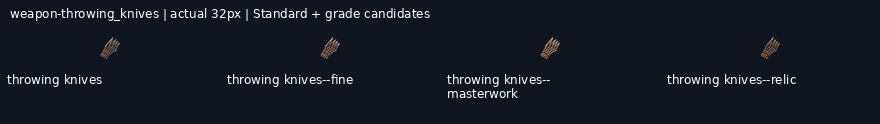
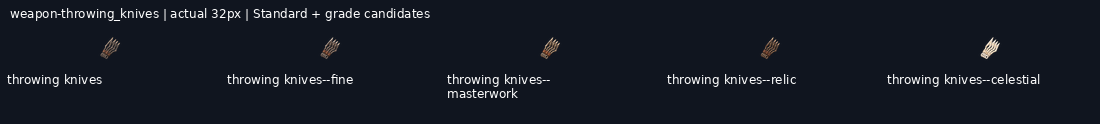
Deliver weapon-throwing_knives--celestial review candidate

diff --git a/art/_archive/gear/2026-11-20-reset-continuation/HANDOFF.md b/art/_archive/gear/2026-11-20-reset-continuation/HANDOFF.md
@@ -1,13 +1,13 @@
 # Reset continuation progress
 
-Branch: `art/2026-11-20-reset-continuation`. New deliveries: 5/22.
+Branch: `art/2026-11-20-reset-continuation`. New deliveries: 6/22.
 
 Shared coordination: https://github.com/leonpentastorm/Project-Heaven-Cry/issues/3 . Read START-HERE.md before extending this queue.
 
 All new entries remain review-candidate; production_approved:false and implementation_ready:false. Exact-outline review remains pending.
 
-Ready jobs: weapon-throwing_knives--celestial, weapon-ork_rip_saw--fine, weapon-hellraiser_servo_fist--fine, weapon-hellraiser_rotary--fine, weapon-purifier_flamer--fine.
+Ready jobs: weapon-ork_rip_saw--fine, weapon-hellraiser_servo_fist--fine, weapon-hellraiser_rotary--fine, weapon-purifier_flamer--fine.
 
-Pending jobs: weapon-throwing_knives--celestial, weapon-ork_rip_saw--fine, weapon-ork_rip_saw--masterwork, weapon-ork_rip_saw--relic, weapon-ork_rip_saw--celestial, weapon-hellraiser_servo_fist--fine, weapon-hellraiser_servo_fist--masterwork, weapon-hellraiser_servo_fist--relic, weapon-hellraiser_servo_fist--celestial, weapon-hellraiser_rotary--fine, weapon-hellraiser_rotary--masterwork, weapon-hellraiser_rotary--relic, weapon-hellraiser_rotary--celestial, weapon-purifier_flamer--fine, weapon-purifier_flamer--masterwork, weapon-purifier_flamer--relic, weapon-purifier_flamer--celestial.
+Pending jobs: weapon-ork_rip_saw--fine, weapon-ork_rip_saw--masterwork, weapon-ork_rip_saw--relic, weapon-ork_rip_saw--celestial, weapon-hellraiser_servo_fist--fine, weapon-hellraiser_servo_fist--masterwork, weapon-hellraiser_servo_fist--relic, weapon-hellraiser_servo_fist--celestial, weapon-hellraiser_rotary--fine, weapon-hellraiser_rotary--masterwork, weapon-hellraiser_rotary--relic, weapon-hellraiser_rotary--celestial, weapon-purifier_flamer--fine, weapon-purifier_flamer--masterwork, weapon-purifier_flamer--relic, weapon-purifier_flamer--celestial.
 
 Quota state: null.
